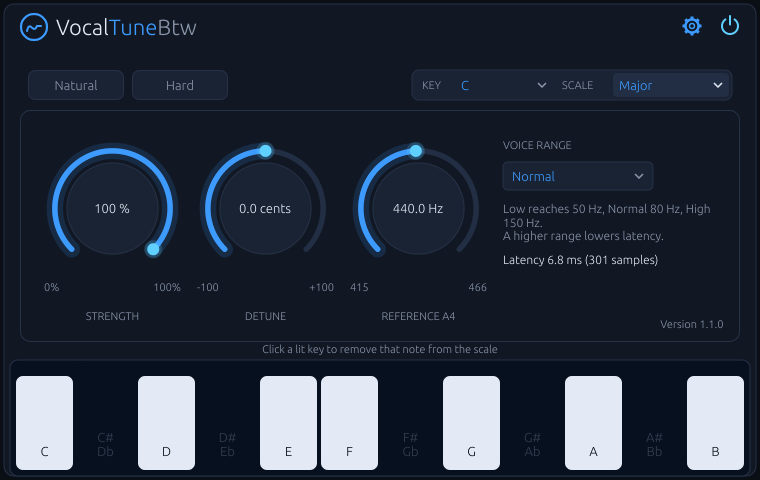
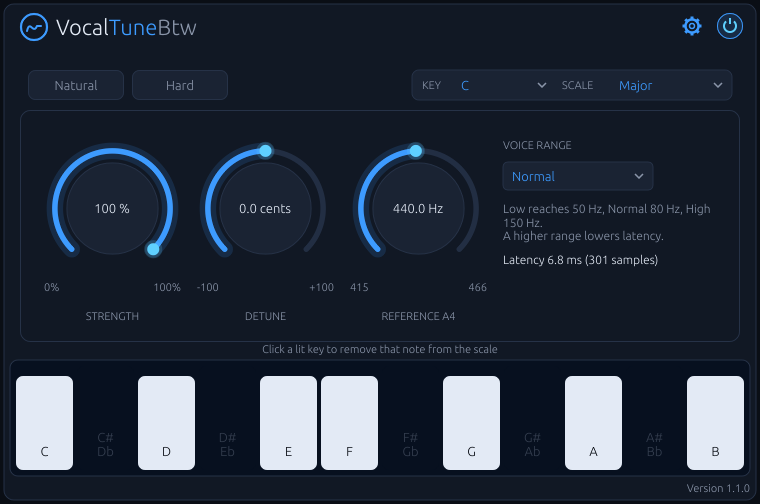
Compact power switch, version bottom right, more room at the bottom
The header power button is now the styleguide's compact PowerSwitch:
accent-halo fill, accent ring and glow icon when on; raised fill, edge
ring and dim icon when bypassed. The tuning meter dims to opacity-off
while bypassed. The version moves from the settings page to the bottom
right of the window, and the window grows to 760 x 504 so the keyboard
frame no longer touches the panel edge.

diff --git a/src/ui/MainPanel.cpp b/src/ui/MainPanel.cpp
@@ -35,29 +35,40 @@ IconButton::IconButton (const juce::String& name, Icon i) : Button (name), icon 
 
 void IconButton::paintButton (juce::Graphics& g, bool highlighted, bool)
 {
+    if (icon == Icon::power)
+    {
+        // The compact PowerSwitch: on while processing (bypass off).
+        const auto centre = getLocalBounds().toFloat().getCentre();
+        const bool on = ! getToggleState();
+        constexpr float radius = 13.0f; // power-radius-compact
+        g.setColour (on ? colours::accentHalo : colours::raised);
+        g.fillEllipse (juce::Rectangle<float> (2.0f * radius, 2.0f * radius).withCentre (centre));
+        g.setColour (on ? colours::accent : colours::edge);
+        g.drawEllipse (juce::Rectangle<float> (2.0f * radius - 1.0f, 2.0f * radius - 1.0f).withCentre (centre), 1.0f);
+
+        // An arc of radius 6 open at the top, and a bar from 8px to 2px above the centre.
+        constexpr float gap = 0.7f;
+        juce::Path symbol;
+        symbol.addCentredArc (centre.x, centre.y, 6.0f, 6.0f, 0.0f, gap, juce::MathConstants<float>::twoPi - gap, true);
+        symbol.startNewSubPath (centre.x, centre.y - 8.0f);
+        symbol.lineTo (centre.x, centre.y - 2.0f);
+        g.setColour (on ? colours::glow : highlighted ? colours::text : colours::textDim);
+        g.strokePath (symbol, juce::PathStrokeType (2.0f, juce::PathStrokeType::curved, juce::PathStrokeType::butt));
+        return;
+    }
+
     const auto bounds = getLocalBounds().toFloat().reduced (4.0f);
     const auto centre = bounds.getCentre();
     const float r = juce::jmin (bounds.getWidth(), bounds.getHeight()) * 0.5f;
 
-    // Power is lit while processing (bypass off). The gear is lit while open.
-    const bool lit = icon == Icon::power ? ! getToggleState() : getToggleState();
-    // Power on is live (glow); an open settings page is a selection (accent).
-    auto colour = lit ? (icon == Icon::power ? colours::glow : colours::accent) : colours::textDim;
+    // The gear is lit (accent, a selection) while the settings page is open.
+    const bool lit = getToggleState();
+    auto colour = lit ? colours::accent : colours::textDim;
     if (highlighted && ! lit)
         colour = colours::text;
     g.setColour (colour);
-    const juce::PathStrokeType stroke (2.0f, juce::PathStrokeType::curved, juce::PathStrokeType::rounded);
 
     juce::Path path;
-    if (icon == Icon::power)
-    {
-        path.addCentredArc (centre.x, centre.y, r * 0.8f, r * 0.8f, 0.0f, juce::degreesToRadians (35.0f),
-                            juce::degreesToRadians (325.0f), true);
-        path.startNewSubPath (centre.x, centre.y - r);
-        path.lineTo (centre.x, centre.y - r * 0.15f);
-        g.strokePath (path, stroke);
-        return;
-    }
 
     constexpr int teeth = 8;
     for (int i = 0; i < teeth; ++i)
@@ -126,11 +137,6 @@ void SettingsPanel::paint (juce::Graphics& g)
                       column.removeFromTop (48.0f).toNearestInt(), juce::Justification::topLeft, 3);
     g.setColour (colours::text);
     g.drawText (latencyText, column.removeFromTop (20.0f), juce::Justification::centredLeft);
-
-    g.setColour (colours::textDim);
-    g.setFont (font (type::caption));
-    g.drawText ("Version " JucePlugin_VersionString, bounds.reduced (16.0f, 10.0f).removeFromBottom (16.0f),
-                juce::Justification::centredRight);
 }
 
 void SettingsPanel::resized()
@@ -223,6 +229,8 @@ void MainPanel::refresh()
     displayedCents = note >= 0 ? displayedCents + (cents - displayedCents) * 0.35f : 0.0f;
 
     meter.setReading (note, displayedCents);
+    // The tuning meter is the display: it dims while the power switch is off.
+    meter.setAlpha (powerButton.getToggleState() ? opacityOff : 1.0f);
     keyboard.refresh (note);
     settings.refresh();
 
@@ -288,6 +296,13 @@ void MainPanel::paint (juce::Graphics& g)
     g.fillRoundedRectangle (frame, 8.0f);
     g.setColour (colours::edge);
     g.drawRoundedRectangle (frame, 8.0f, 1.0f);
+
+    // Version, bottom right below the keyboard.
+    g.setColour (colours::textDim);
+    g.setFont (font (type::caption));
+    g.drawText ("Version " JucePlugin_VersionString,
+                juce::Rectangle<float> (frame.getX(), frame.getBottom() + 4.0f, frame.getWidth(), 16.0f),
+                juce::Justification::centredRight);
 }
 
 void MainPanel::resized()

diff --git a/src/ui/Theme.h b/src/ui/Theme.h
@@ -27,6 +27,9 @@ namespace colours
     inline const juce::Colour scrim { 0xe60a0e15 };        // background at 90%
 } // namespace colours
 
+// opacity-off: the display's contents while the effect is switched off.
+inline constexpr float opacityOff = 0.35f;
+
 // The five PluginsBTW type sizes, in pixels (point height). Don't add others.
 namespace type
 {
@@ -47,5 +50,5 @@ inline juce::Font font (float size)
 
 // Design size of the editor. The editor scales this to its actual size.
 inline constexpr int designWidth = 760;
-inline constexpr int designHeight = 480;
+inline constexpr int designHeight = 504;
 } // namespace pitchpilot::ui
